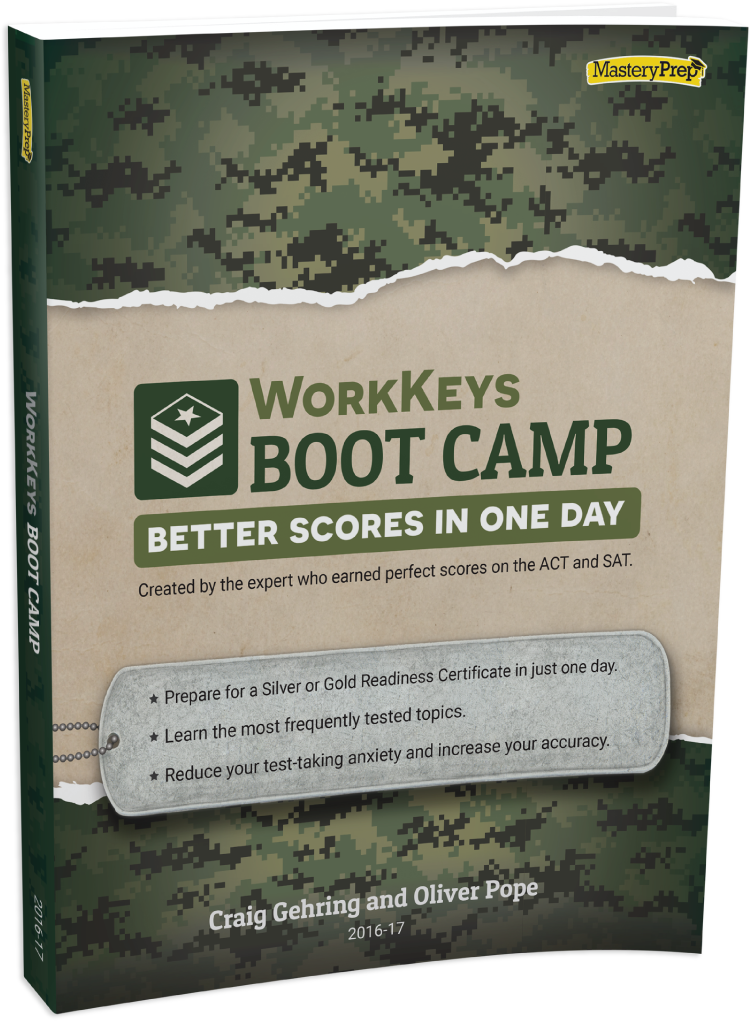
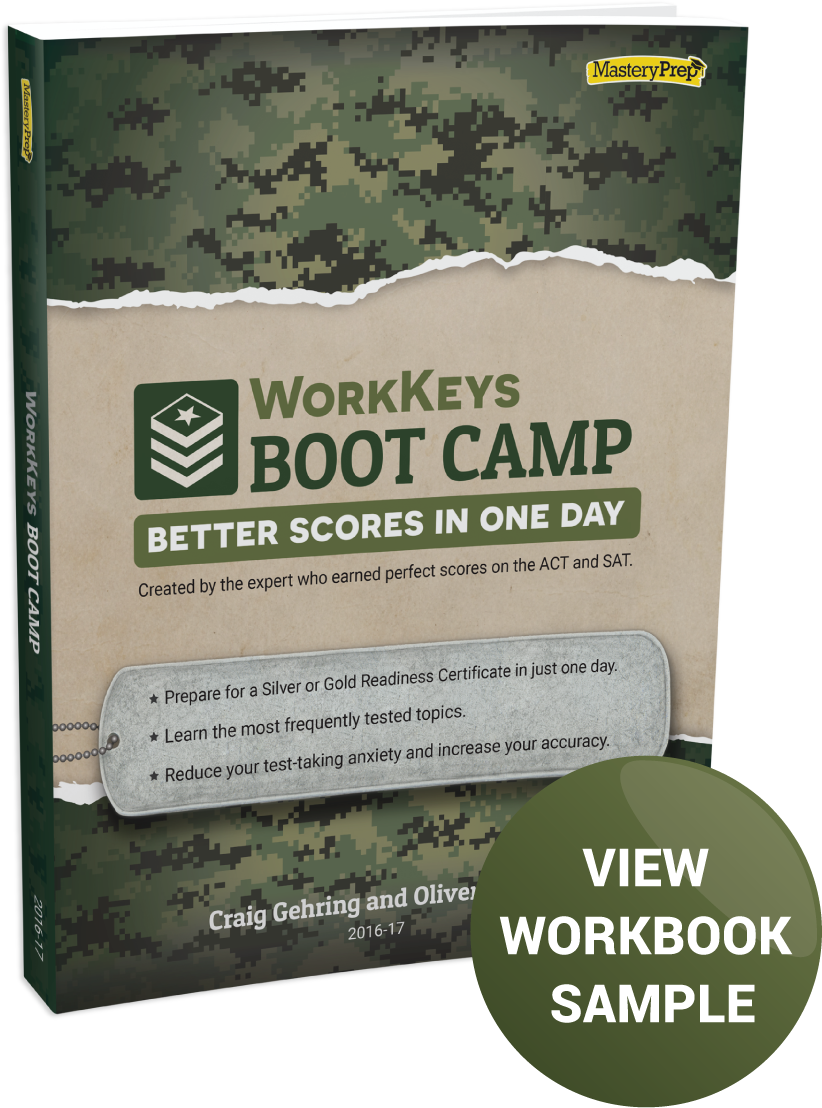
tweak mobile styles

diff --git a/styles/workkeysstyles.css b/styles/workkeysstyles.css
@@ -10,6 +10,8 @@ body {
 	font-family: 'Roboto', sans-serif;
 	margin: 0;
 	background-color: #f4e5d0;
+	font-size: 150%;
+	font-weight: 500;
 }
 
 #container {
@@ -19,42 +21,44 @@ body {
 h2 {
 	background-color: #677243;
 	color: white;
-	padding: 1.5rem;
-	border-radius: 1rem;
+	padding: .25em;
+	padding-left: .5em;
+	border-radius: .5em;
 	font-family: 'Patua One', cursive;
-	font-size: 125%;
-	letter-spacing: .175rem;
+	font-size: 140%;
+	font-weight: normal;
 }
 
 #formcontainer {
 	background-color: #677243;
-	padding: 3rem;
-	border-radius: 1rem;
+	padding: .25em;
+	border-radius: .25em;
 	color: white;
 	font-size: 300%;
-	margin-top: 4rem;
+	margin: .5em;
 }
 
 #formcontainer p {
 	text-align: center;
-	font-size: 50%;
-	margin-bottom: 2rem;
-}
-
-form {
-	width: 80%;
-	margin-left: auto;
-	margin-right: auto;
+	font-size: 40%;
 }
 
 h1 {
+	text-align: center;
+	font-size: 190%;
+	margin-top: 1em;
+	margin-bottom: 1em;
 	color: #30302c;
+	padding-left: 1em;
+	padding-right: 1em;
 }
 
 #parentul {
 	list-style-image: url('../images/greenstar.png');
-	margin-left: 4rem;
-	margin-bottom: 4rem;
+}
+
+#parentul li {
+	padding-left: .5em;
 }
 
 
@@ -63,37 +67,38 @@ h1 {
 	list-style-image: none;
 }
 
-#developers p {
-	margin-left: 2rem;
-	margin-right: 2rem;
+li {
+	padding-top: .25em;
 }
 
-#mplogomobile, #mplogodesktop .wkbclogo, #wkbc3d {
-		display: block;
-		margin-left: auto;
-		margin-right: auto;
+#parentul>li:first-child {
+	padding-top: 0;
+}
+
+#developers p {
+	margin-left: 1em;
+	margin-right: 1em;
+}
+
+#mplogo, .wkbclogo, #wkbc3d {
+	display: block;
+	margin-left: auto;
+	margin-right: auto;
 }
 
 .wkbclogo {
 	width: 90%;
 }
 
-#mplogomobile {
-	width: 60%;
-	padding-top: 8rem;
-	padding-bottom: 15rem;
+#mplogo {
+	width: 70%;
+	padding-top: 12%;
+	padding-bottom: 22%;
 }
 
 #wkbc3d {
-	margin-bottom: 5rem;
-}
-
-h1 {
-	text-align: center;
-	font-size: 500%;
-	margin-top: 6rem;
-	margin-bottom: 6rem;
-	color: #30302c;
+	width: 70%;
+	margin-bottom: 5em;
 }
 
 #samplebutton {
@@ -106,8 +111,8 @@ h1 {
 	position: absolute;
 	background-repeat: no-repeat;
 	z-index: 2;
-	bottom: -58rem;
-	left: 38rem;
+	bottom: -58em;
+	left: 38em;
 }
 
 #samplebutton p {
@@ -119,85 +124,72 @@ h1 {
 	width: 80%;
 	margin-left: auto;
 	margin-right: auto;
-	padding-top: 1rem;
+	padding-top: 1em;
 }
 
 header {
 	background-image: url(../images/mobileheader.png);
 	background-size: 100%;
-	margin-bottom: 3rem;
+	background-repeat: no-repeat;
 }
 
 footer {
 	background-image: url(../images/mobilefooter.png);
 	background-size: 100%;
+	background-repeat: no-repeat;
+/*	padding-top: 5em;*/
 }
 
 #contentmain {
-	padding-left: 1.5rem;
-	padding-right: 1.5rem;
+	padding-left: .5em;
+	padding-right: .5em;
 }
 
-footer p {
+#disclaimer {
 	color: white;
 	font-size: 70%;
-	padding-left: 3rem;
-	padding-right: 3rem;
-	padding-bottom: 3rem;
+	font-weight: normal;
+	padding-top: 3em;
+	padding-bottom: 2em;
+	text-align: center;
 	margin-bottom: 0;
-	margin-top: 13rem;
+	width: 80%;
+	margin-left: auto;
+	margin-right: auto;
 }
 
 #scheduling {
 	color: #30302c;
-	font-size: 200%;
+	font-size: 125%;
 	text-align: center;
-	margin-bottom: 4rem;
-	padding-left: 3rem;
-	padding-right: 3rem;
-}
-
-footer {
-	padding-top: 5rem;
+	margin-bottom: 2em;
+	padding-left: .25em;
+	padding-right: .25em;
 }
 
 #dogtag {
 	background-image: url(../images/dogtag.png);
 	background-size: 100%;
 	background-repeat: no-repeat;
-	position: absolute;
 }
 
 #dogtag p {
 	text-align: center;
 	font-family: 'Patua One', cursive;
-	font-size: 300%;
-	letter-spacing: .175rem;
 	color: #30302c;
-	padding-left: 8rem;
-	padding-right: 4rem;
-	padding-top: 2.5rem;
-	padding-bottom: 4rem;
-	margin: 0;
+	width: 70%;
+	margin-left: auto;
+	margin-right: auto;
+	font-size: 4.5vw;
+	padding-top: 1em;
+	height: 4em;
 }
 
-
-
-/*tablet styles*/
-
-@media only screen and (max-width: 700px) {
-	#mplogodesktop {
-		display: none;
-	}
+#samplebutton {
+	display: none;
 }
 
-/*@media only screen and (min-width: 700px) {
-	header {
-		background-image: url(../images/desktopheader.png);
-		background-repeat: no-repeat;
-	}
-*/
-	#mplogodesktop {
-		display: none;
-	}
+a {
+	text-decoration: none;
+	color: #677243;
 }

diff --git a/index.html b/index.html
@@ -11,14 +11,15 @@
 <body>
 	<div id="container">
 		<header>
-			<img id="mplogomobile" src="images/mplogomobile.png" alt="MasteryPrep" title="MasteryPrep">
-<!-- 			<img id="mplogodesktop" src="images/mplogodesktop.png" alt="MasteryPrep" title="MasteryPrep"> -->
+			<img id="mplogo" src="images/mplogo.png" alt="MasteryPrep" title="MasteryPrep">
 		</header>
 		<div id="contentmain">	
 			<section>
 				<img class="wkbclogo" src="images/wkbclogo-vertical.png" alt="WorkKeys Boot Camp" title="WorkKeys Boot Camp">
-			<h1>Now booking for the 2016-2017 school year!</h1>
-				<img id="wkbc3d" src="images/wkbc3d.png" alt="WorkKeys Boot Camp book" title="WorkKeys Boot Camp book">
+			<h1>Now booking for the 2016-17 school year!</h1>
+				<a href="https://www.google.com">
+					<img id="wkbc3d" src="images/wkbc3d.png" alt="WorkKeys Boot Camp book" title="WorkKeys Boot Camp book">
+				</a>
 				<div id="samplebutton">
 					<p>View Workbook Sample</p>
 				</div>
@@ -28,19 +29,19 @@
 				<ul id="parentul">
 					<li>In one day, students learn:
 						<ul id="childul">
-							<li>Pacing and Time Management</li>
-							<li>Test-Taking Strategies</li>
-							<li>Tips for the Most Important Question Types</li>
-							<li>Applied Mathematics Content Strategies</li>
-							<li>Reading for Information Content Strategies</li>
-							<li>Locating Information Content Strategies</li>
+							<li>Pacing and time management</li>
+							<li>Test-taking strategies</li>
+							<li>Tips for the most frequently tested question types</li>
+							<li>Applied Mathematics content strategies</li>
+							<li>Reading for Information content strategies</li>
+							<li>Locating Information content strategies</li>
 						</ul>
 					</li>
-					<li>The only one-day workshop designed to help students earn their National Career Readiness Certificate.</li>
-					<li>Expert instructors.</li>
-					<li>Easy to schedule, during the school day or on the weekend.</li>
-					<li>Effective prep in the "final hours" before the test.</li>
-					<li>Get more Silver and Gold NCRC certificates in your school in one day.</li>
+					<li>The only one-day workshop designed to help students earn their National Career Readiness Certificate&trade;</li>
+					<li>Expert instructors</li>
+					<li>Easy to schedule: during the school day or on the weekend</li>
+					<li>Effective prep in the "final hours" before the test</li>
+					<li>Get more Silver and Gold NCRC&reg; certificates in your school in one day</li>
 				</ul>
 				<h2>Meet the Developers</h2>
 				<div id="developers">
@@ -49,7 +50,7 @@
 				</div>
 			</section>
 			<section id="formcontainer">
-				<p>Fill out the form below to request a quote or check availability</p>
+				<p>Fill out the form below to request a quote or check availability.</p>
 				<div data-paperform-id="workkeysbc">
 				</div>
 				<script>
@@ -58,16 +59,14 @@
 			</section>
 			<section>
 				<h1>Get the WorkKeys Boot Camp at your school!</h1>
-				<p id="scheduling">Scheduling availability is limited and provided on a first come, first served basis.</p>
+				<p id="scheduling">Scheduling availability is limited and provided on a first-come, first-served basis.</p>
 			</section>
 		</div>	
-		<section>
-			<div id="dogtag">
-				<p>To learn more, call (855) 922-2848 or fill out the form above.</p>
-			</div>
-		</section>
 		<footer>
-			<p>&copy; 2017 MasteryPrep. All rights reserved. ACT is a trademark of ACT, Inc. MasteryPrep is in no way affiliated or endorsed by ACT, Inc.</p>
+			<div id="dogtag">
+				<p>To learn more, call <a href="tel:1-855-922-2848">(855)&nbsp;922&#8209;2848</a> or fill out the form above.</p>
+			</div>			
+			<p id="disclaimer">&copy; 2017 MasteryPrep. All rights reserved. ACT is a trademark of ACT, Inc. MasteryPrep is in no way affiliated with or endorsed by ACT, Inc.</p>
 		</footer>
 	</div>	
 </body>
